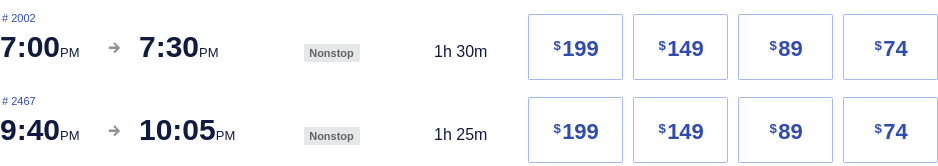
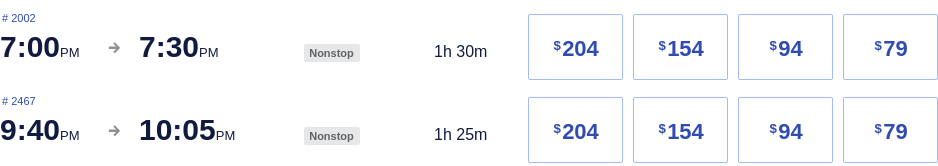
Latest scraping states: Fri Aug 18 22:52:17 UTC 2023

diff --git a/scrapes/states/southwest-01-04.md b/scrapes/states/southwest-01-04.md
@@ -8,7 +8,7 @@
     
     1h 30m
     
-    74 Dollars$74
+    79 Dollars$79
     
 * \# 2467 Opens flyout.
     
@@ -20,7 +20,7 @@
     
     1h 25m
     
-    74 Dollars$74
+    79 Dollars$79
     
 
 ![](southwest-01-04.png)

diff --git a/scrapes/states/southwest-01-05.md b/scrapes/states/southwest-01-05.md
@@ -8,7 +8,7 @@
     
     1h 35m
     
-    74 Dollars$74
+    79 Dollars$79
     
 * \# 505 Opens flyout.
     
